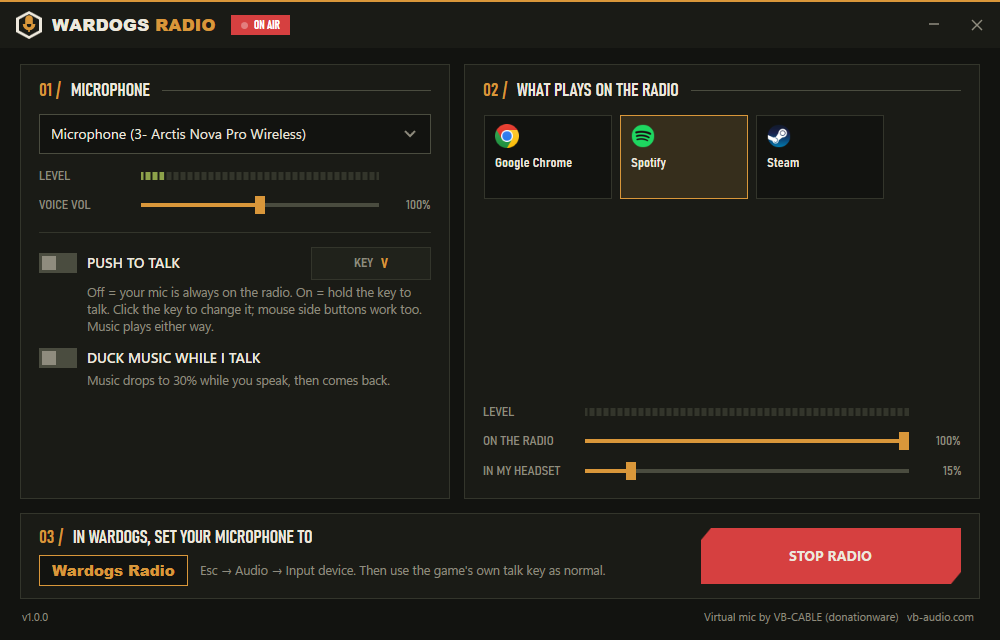
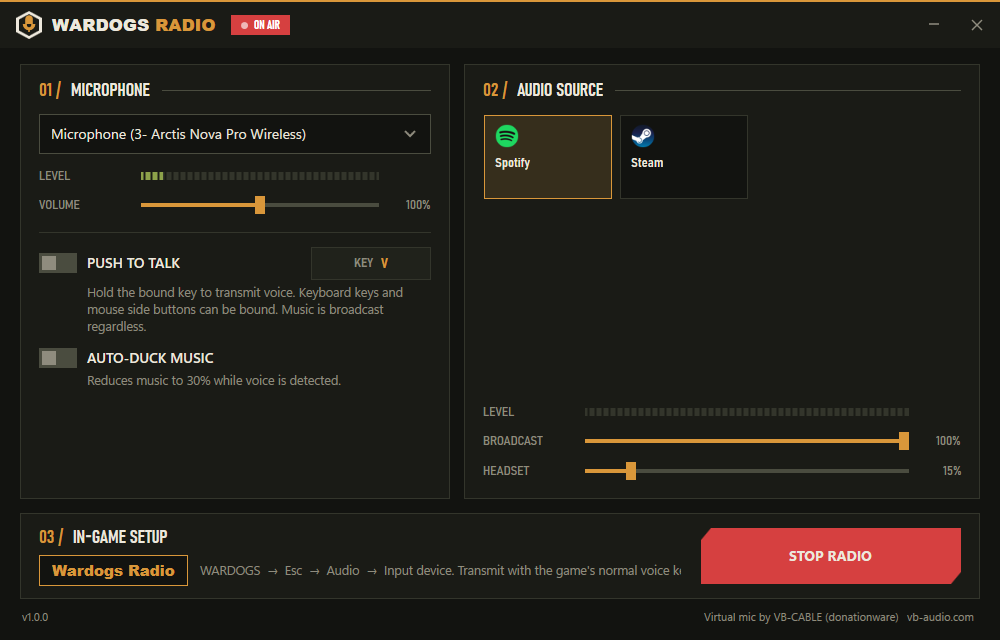
Rewrite UI copy in game-menu voice; fix clipped in-game setup hint; hide game client from sources

diff --git a/src/WardogsRadio/MainWindow.xaml b/src/WardogsRadio/MainWindow.xaml
@@ -112,8 +112,8 @@
                     </StackPanel>
 
                     <StackPanel Visibility="{Binding Stage, Converter={StaticResource StageIs}, ConverterParameter=Intro}">
-                        <TextBlock FontSize="15" Margin="0,0,0,6">Wardogs Radio needs a virtual microphone so the game can hear your music. This takes about a minute and only happens once.</TextBlock>
-                        <TextBlock Style="{StaticResource Muted}" Margin="0,0,0,20">Windows will ask for permission along the way. Click Yes / Install when it does.</TextBlock>
+                        <TextBlock FontSize="15" Margin="0,0,0,6">Wardogs Radio installs a virtual microphone so the game can receive the broadcast. One-time setup, about a minute.</TextBlock>
+                        <TextBlock Style="{StaticResource Muted}" Margin="0,0,0,20">Windows will request permission during setup. Choose Yes / Install.</TextBlock>
                         <Button Style="{StaticResource PrimaryButton}" Content="SET IT UP" Command="{Binding BeginSetupCommand}" HorizontalAlignment="Left" Width="220" Height="52"/>
                     </StackPanel>
 
@@ -126,7 +126,7 @@
                     <StackPanel Visibility="{Binding Stage, Converter={StaticResource StageIs}, ConverterParameter=Installing}">
                         <TextBlock Style="{StaticResource SectionLabel}" FontSize="22" Text="{Binding SetupMessage}" Margin="0,0,0,10"/>
                         <TextBlock FontSize="15" Text="{Binding SetupDetail}" Margin="0,0,0,18"/>
-                        <TextBlock Style="{StaticResource Muted}" Text="Waiting for the installer to finish…"/>
+                        <TextBlock Style="{StaticResource Muted}" Text="Waiting for the installer to complete…"/>
                     </StackPanel>
 
                     <StackPanel Visibility="{Binding Stage, Converter={StaticResource StageIs}, ConverterParameter=RebootNeeded}">
@@ -134,7 +134,7 @@
                         <TextBlock FontSize="15" Text="{Binding SetupDetail}" Margin="0,0,0,20"/>
                         <StackPanel Orientation="Horizontal">
                             <Button Style="{StaticResource PrimaryButton}" Content="RESTART NOW" Command="{Binding RebootNowCommand}" Width="220" Height="52"/>
-                            <Button Style="{StaticResource LinkButton}" Content="I'll restart later" Click="Close_Click" Margin="16,0,0,0" VerticalAlignment="Center"/>
+                            <Button Style="{StaticResource LinkButton}" Content="Restart later" Click="Close_Click" Margin="16,0,0,0" VerticalAlignment="Center"/>
                         </StackPanel>
                     </StackPanel>
 
@@ -179,7 +179,7 @@
                             <ColumnDefinition Width="*"/>
                             <ColumnDefinition Width="Auto"/>
                         </Grid.ColumnDefinitions>
-                        <TextBlock VerticalAlignment="Center" Margin="0,0,12,0">The microphone still has its factory name. Rename it to "Wardogs Radio" so it's easy to find in the game.</TextBlock>
+                        <TextBlock VerticalAlignment="Center" Margin="0,0,12,0">The virtual microphone is not yet named "Wardogs Radio". Rename it for easy selection in-game.</TextBlock>
                         <Button Grid.Column="1" Style="{StaticResource SecondaryButton}" Content="RENAME" Command="{Binding FinishBrandingCommand}"/>
                     </Grid>
                 </Border>
@@ -244,7 +244,7 @@
                                 <TextBlock Style="{StaticResource FieldLabel}" Text="TX" FontSize="11"/>
                             </StackPanel>
 
-                            <TextBlock Grid.Row="1" Style="{StaticResource FieldLabel}" Text="VOICE VOL" VerticalAlignment="Center" Margin="0,10,0,0"/>
+                            <TextBlock Grid.Row="1" Style="{StaticResource FieldLabel}" Text="VOLUME" VerticalAlignment="Center" Margin="0,10,0,0"/>
                             <Slider Grid.Row="1" Grid.Column="1" Minimum="0" Maximum="200" Value="{Binding MicVolume}" LargeChange="10" SmallChange="5" Margin="6,10,6,0"/>
                             <TextBlock Grid.Row="1" Grid.Column="2" Text="{Binding MicVolume, Converter={StaticResource Percent}}" Style="{StaticResource FieldLabel}" HorizontalAlignment="Right" VerticalAlignment="Center" Margin="0,10,0,0"/>
                         </Grid>
@@ -259,17 +259,17 @@
                             </Grid.ColumnDefinitions>
                             <CheckBox Content="PUSH TO TALK" IsChecked="{Binding PushToTalk}" FontFamily="{StaticResource LabelFont}" FontStretch="SemiCondensed" FontWeight="SemiBold" VerticalAlignment="Center"/>
                             <Button Grid.Column="1" Style="{StaticResource SecondaryButton}" Command="{Binding SetPushToTalkKeyCommand}" MinWidth="120" IsEnabled="{Binding PushToTalk}"
-                                    ToolTip="Click, then press any key or mouse button (side buttons work)">
+                                    ToolTip="Click, then press a key or mouse button to bind it">
                                 <StackPanel Orientation="Horizontal">
                                     <TextBlock Text="KEY" Style="{StaticResource FieldLabel}" Margin="0,0,8,0" VerticalAlignment="Center"/>
                                     <TextBlock Text="{Binding PushToTalkKeyName}" FontFamily="{StaticResource LabelFont}" FontWeight="Bold" Foreground="{StaticResource SandBrush}" VerticalAlignment="Center"/>
                                 </StackPanel>
                             </Button>
                         </Grid>
-                        <TextBlock Style="{StaticResource Muted}" Margin="48,4,0,0" Text="Off = your mic is always on the radio. On = hold the key to talk. Click the key to change it; mouse side buttons work too. Music plays either way."/>
+                        <TextBlock Style="{StaticResource Muted}" Margin="48,4,0,0" Text="Hold the bound key to transmit voice. Keyboard keys and mouse side buttons can be bound. Music is broadcast regardless."/>
 
-                        <CheckBox Content="DUCK MUSIC WHILE I TALK" IsChecked="{Binding Ducking}" FontFamily="{StaticResource LabelFont}" FontStretch="SemiCondensed" FontWeight="SemiBold" Margin="0,14,0,0"/>
-                        <TextBlock Style="{StaticResource Muted}" Margin="48,4,0,0" Text="Music drops to 30% while you speak, then comes back."/>
+                        <CheckBox Content="AUTO-DUCK MUSIC" IsChecked="{Binding Ducking}" FontFamily="{StaticResource LabelFont}" FontStretch="SemiCondensed" FontWeight="SemiBold" Margin="0,14,0,0"/>
+                        <TextBlock Style="{StaticResource Muted}" Margin="48,4,0,0" Text="Reduces music to 30% while voice is detected."/>
                     </StackPanel>
                 </Border>
 
@@ -288,7 +288,7 @@
                                 <ColumnDefinition Width="*"/>
                             </Grid.ColumnDefinitions>
                             <TextBlock Style="{StaticResource SectionIndex}" Text="02 /"/>
-                            <TextBlock Grid.Column="1" Style="{StaticResource SectionLabel}" Text="WHAT PLAYS ON THE RADIO"/>
+                            <TextBlock Grid.Column="1" Style="{StaticResource SectionLabel}" Text="AUDIO SOURCE"/>
                             <Border Grid.Column="2" Style="{StaticResource SectionRule}"/>
                         </Grid>
 
@@ -315,7 +315,7 @@
                                     </ListBox.ItemTemplate>
                                 </ListBox>
                                 <Border Background="{StaticResource BgBrush}" BorderBrush="{StaticResource LineBrush}" BorderThickness="1" Padding="14,12" Visibility="{Binding HasApps, Converter={StaticResource VisInv}}">
-                                    <TextBlock Style="{StaticResource Muted}" FontSize="13">Nothing is making sound right now. Open Spotify (or whatever you want on the radio), press play, and it shows up here.</TextBlock>
+                                    <TextBlock Style="{StaticResource Muted}" FontSize="13">No audio sources detected. Launch Spotify or another app, start playback, and it will appear here.</TextBlock>
                                 </Border>
                             </StackPanel>
                         </ScrollViewer>
@@ -334,11 +334,11 @@
                             <TextBlock Style="{StaticResource FieldLabel}" Text="LEVEL" VerticalAlignment="Center"/>
                             <ContentPresenter Grid.Column="1" Content="{Binding AppLevel}" ContentTemplate="{StaticResource LevelMeter}" VerticalAlignment="Center" Margin="6,0"/>
 
-                            <TextBlock Grid.Row="1" Style="{StaticResource FieldLabel}" Text="ON THE RADIO" VerticalAlignment="Center" Margin="0,10,0,0" ToolTip="How loud the music is for everyone else"/>
+                            <TextBlock Grid.Row="1" Style="{StaticResource FieldLabel}" Text="BROADCAST" VerticalAlignment="Center" Margin="0,10,0,0" ToolTip="Music level heard by other players"/>
                             <Slider Grid.Row="1" Grid.Column="1" Minimum="0" Maximum="100" Value="{Binding MusicVolume}" LargeChange="10" SmallChange="5" Margin="6,10,6,0"/>
                             <TextBlock Grid.Row="1" Grid.Column="2" Text="{Binding MusicVolume, Converter={StaticResource Percent}}" Style="{StaticResource FieldLabel}" HorizontalAlignment="Right" VerticalAlignment="Center" Margin="0,10,0,0"/>
 
-                            <TextBlock Grid.Row="2" Style="{StaticResource FieldLabel}" Text="IN MY HEADSET" VerticalAlignment="Center" Margin="0,8,0,0" ToolTip="How loud the music is for you. Doesn't change the radio."/>
+                            <TextBlock Grid.Row="2" Style="{StaticResource FieldLabel}" Text="HEADSET" VerticalAlignment="Center" Margin="0,8,0,0" ToolTip="Music level in your own headset. Does not affect the broadcast."/>
                             <Slider Grid.Row="2" Grid.Column="1" Minimum="2" Maximum="100" Value="{Binding HeadsetVolume}" LargeChange="10" SmallChange="5" Margin="6,8,6,0"/>
                             <TextBlock Grid.Row="2" Grid.Column="2" Text="{Binding HeadsetVolume, Converter={StaticResource Percent}}" Style="{StaticResource FieldLabel}" HorizontalAlignment="Right" VerticalAlignment="Center" Margin="0,8,0,0"/>
                         </Grid>
@@ -356,14 +356,21 @@
                     <StackPanel VerticalAlignment="Center">
                         <StackPanel Orientation="Horizontal" Margin="0,0,0,6">
                             <TextBlock Style="{StaticResource SectionIndex}" Text="03 /"/>
-                            <TextBlock Style="{StaticResource SectionLabel}" Text="IN WARDOGS, SET YOUR MICROPHONE TO"/>
+                            <TextBlock Style="{StaticResource SectionLabel}" Text="IN-GAME SETUP"/>
                         </StackPanel>
-                        <StackPanel Orientation="Horizontal">
+                        <Grid>
+                            <Grid.ColumnDefinitions>
+                                <ColumnDefinition Width="Auto"/>
+                                <ColumnDefinition Width="*"/>
+                            </Grid.ColumnDefinitions>
                             <Border Background="{StaticResource BgBrush}" BorderBrush="{StaticResource SandBrush}" BorderThickness="1" Padding="12,6" VerticalAlignment="Center">
-                                <TextBlock Text="{Binding RadioMicName}" FontFamily="{StaticResource DisplayFont}" FontWeight="Black" FontSize="15" Foreground="{StaticResource SandBrush}"/>
+                                <TextBlock Text="{Binding RadioMicName}" FontFamily="{StaticResource DisplayFont}" FontWeight="Black" FontSize="15" Foreground="{StaticResource SandBrush}" TextWrapping="NoWrap"/>
                             </Border>
-                            <TextBlock Style="{StaticResource Muted}" VerticalAlignment="Center" Margin="12,0,0,0" Text="Esc → Audio → Input device. Then use the game's own talk key as normal."/>
-                        </StackPanel>
+                            <StackPanel Grid.Column="1" VerticalAlignment="Center" Margin="12,0,0,0">
+                                <TextBlock Style="{StaticResource Muted}" Text="WARDOGS  →  Esc  →  Audio  →  Input device"/>
+                                <TextBlock Style="{StaticResource Muted}" Text="Transmit with the game's normal voice key."/>
+                            </StackPanel>
+                        </Grid>
                     </StackPanel>
                     <Grid Grid.Column="1" VerticalAlignment="Center" Margin="20,0,0,0">
                         <Button Style="{StaticResource PrimaryButton}" Content="START RADIO" Command="{Binding ToggleRadioCommand}" IsEnabled="{Binding CanStart}" Width="260" Height="56"

diff --git a/src/WardogsRadio/ViewModels/MainViewModel.cs b/src/WardogsRadio/ViewModels/MainViewModel.cs
@@ -133,24 +133,24 @@ public partial class MainViewModel : ObservableObject, IDisposable
         try
         {
             Stage = SetupStage.Downloading;
-            SetupMessage = "Downloading the virtual microphone…";
+            SetupMessage = "Downloading virtual microphone…";
             SetupDetail = "About 1 MB, from vb-audio.com";
             await VbCableInstaller.DownloadAsync(new Progress<double>(p => DownloadProgress = p), CancellationToken.None);
 
             VbCableInstaller.SnapshotDefaults(_settings);
 
             Stage = SetupStage.Installing;
-            SetupMessage = "Windows will ask for permission. Click Yes.";
+            SetupMessage = "Windows will request permission. Choose Yes.";
             SetupDetail = VbCableInstaller.SilentInstall
-                ? "If Windows asks whether to install the driver, click Install."
-                : "Then a small VB-CABLE window opens. Click \"Install Driver\". If Windows asks about the driver, click Install. When it says done, click OK.";
+                ? "If Windows asks to install the driver, choose Install."
+                : "A VB-CABLE window will open. Choose \"Install Driver\". If Windows asks about the driver, choose Install. Choose OK when it reports completion.";
 
             var proc = VbCableInstaller.LaunchElevatedSetup();
             if (proc == null)
             {
                 Stage = SetupStage.Error;
-                SetupMessage = "Setup needs that permission to continue.";
-                SetupDetail = "Click Try again and choose Yes when Windows asks.";
+                SetupMessage = "Permission is required to continue.";
+                SetupDetail = "Choose Try again, then Yes when Windows asks.";
                 return;
             }
             await proc.WaitForExitAsync();
@@ -168,23 +168,23 @@ public partial class MainViewModel : ObservableObject, IDisposable
             if (code == VbCableInstaller.ExitCodes.RebootRequired)
             {
                 Stage = SetupStage.RebootNeeded;
-                SetupMessage = "Almost done. Windows needs a restart to finish.";
-                SetupDetail = "Wardogs Radio will open again by itself after the restart.";
+                SetupMessage = "Restart required to finish installing.";
+                SetupDetail = "Wardogs Radio reopens automatically after the restart.";
                 return;
             }
             Stage = SetupStage.Error;
             SetupMessage = code switch
             {
-                VbCableInstaller.ExitCodes.PackageMissing => "The download looks incomplete.",
-                VbCableInstaller.ExitCodes.NotAdmin => "Setup was not allowed to run as administrator.",
-                _ => "The virtual microphone did not install.",
+                VbCableInstaller.ExitCodes.PackageMissing => "Download incomplete.",
+                VbCableInstaller.ExitCodes.NotAdmin => "Setup was not granted administrator rights.",
+                _ => "Virtual microphone installation failed.",
             };
-            SetupDetail = "Click Try again. If it keeps failing, restart your PC and open Wardogs Radio again.";
+            SetupDetail = "Choose Try again. If it keeps failing, restart the PC and reopen Wardogs Radio.";
         }
         catch (Exception ex)
         {
             Stage = SetupStage.Error;
-            SetupMessage = "Setup hit a problem.";
+            SetupMessage = "Setup failed.";
             SetupDetail = ex.Message;
         }
         finally { SetupBusy = false; }
@@ -207,13 +207,13 @@ public partial class MainViewModel : ObservableObject, IDisposable
             var proc = VbCableInstaller.LaunchElevatedSetup();
             if (proc == null)
             {
-                ErrorMessage = "Windows asked for permission and it was declined. Click \"Name it now\" and choose Yes.";
+                ErrorMessage = "Permission was declined. Choose Rename, then Yes when Windows asks.";
                 return;
             }
             await proc.WaitForExitAsync();
             RecheckCable();
             if (NeedsBranding)
-                ErrorMessage = "Could not rename the microphone (code " + proc.ExitCode + "). The radio still works; in the game pick \"" + RadioMicName + "\".";
+                ErrorMessage = "Rename failed (code " + proc.ExitCode + "). Broadcasting still works; select \"" + RadioMicName + "\" in-game.";
         }
         finally { SetupBusy = false; }
     }
@@ -238,8 +238,8 @@ public partial class MainViewModel : ObservableObject, IDisposable
     private void StartRadio()
     {
         ErrorMessage = null;
-        if (SelectedMic == null) { ErrorMessage = "Pick your microphone first."; return; }
-        if (SelectedApp == null) { ErrorMessage = "Pick the app you want on the radio."; return; }
+        if (SelectedMic == null) { ErrorMessage = "Select a microphone."; return; }
+        if (SelectedApp == null) { ErrorMessage = "Select an audio source."; return; }
         _cable ??= AudioDevices.FindCable();
         if (_cable == null) { IsSetupMode = true; Stage = SetupStage.Intro; return; }
 
@@ -258,8 +258,8 @@ public partial class MainViewModel : ObservableObject, IDisposable
         {
             IsOnAir = false;
             ErrorMessage = ProcessLoopbackCapture.IsSupported
-                ? "Could not start: " + ex.Message
-                : "Wardogs Radio needs Windows 10 (May 2020 update) or newer.";
+                ? "Unable to start: " + ex.Message
+                : "Requires Windows 10 (May 2020 update) or newer.";
             StartPreview();
         }
     }
@@ -439,7 +439,7 @@ public partial class MainViewModel : ObservableObject, IDisposable
             {
                 var reborn = fresh.FirstOrDefault(a => a.ExeName.Equals(SelectedApp.ExeName, StringComparison.OrdinalIgnoreCase));
                 if (reborn != null) SelectedApp = Apps.First(a => a.RootPid == reborn.RootPid);
-                else InfoMessage = SelectedApp.DisplayName + " was closed. Your mic is still on the radio; open it again and it reconnects.";
+                else InfoMessage = SelectedApp.DisplayName + " was closed. Voice is still broadcasting; music resumes when it is reopened.";
             }
 
             // Apps open new audio sessions over time; keep the headset level applied to all of them.

diff --git a/src/WardogsRadio/Audio/RadioEngine.cs b/src/WardogsRadio/Audio/RadioEngine.cs
@@ -69,9 +69,9 @@ public sealed class RadioEngine : IDisposable
             try
             {
                 var micDevice = AudioDevices.GetDevice(micDeviceId)
-                    ?? throw new InvalidOperationException("That microphone is not connected any more.");
+                    ?? throw new InvalidOperationException("Microphone is no longer connected.");
                 var cableDevice = AudioDevices.GetDevice(cablePlaybackId)
-                    ?? throw new InvalidOperationException("The Wardogs Radio virtual cable is missing. Restart the app to set it up again.");
+                    ?? throw new InvalidOperationException("Virtual microphone not found. Restart Wardogs Radio to reinstall it.");
 
                 // --- microphone -----------------------------------------------------------------
                 _mic = new WasapiCapture(micDevice, true, 20);
